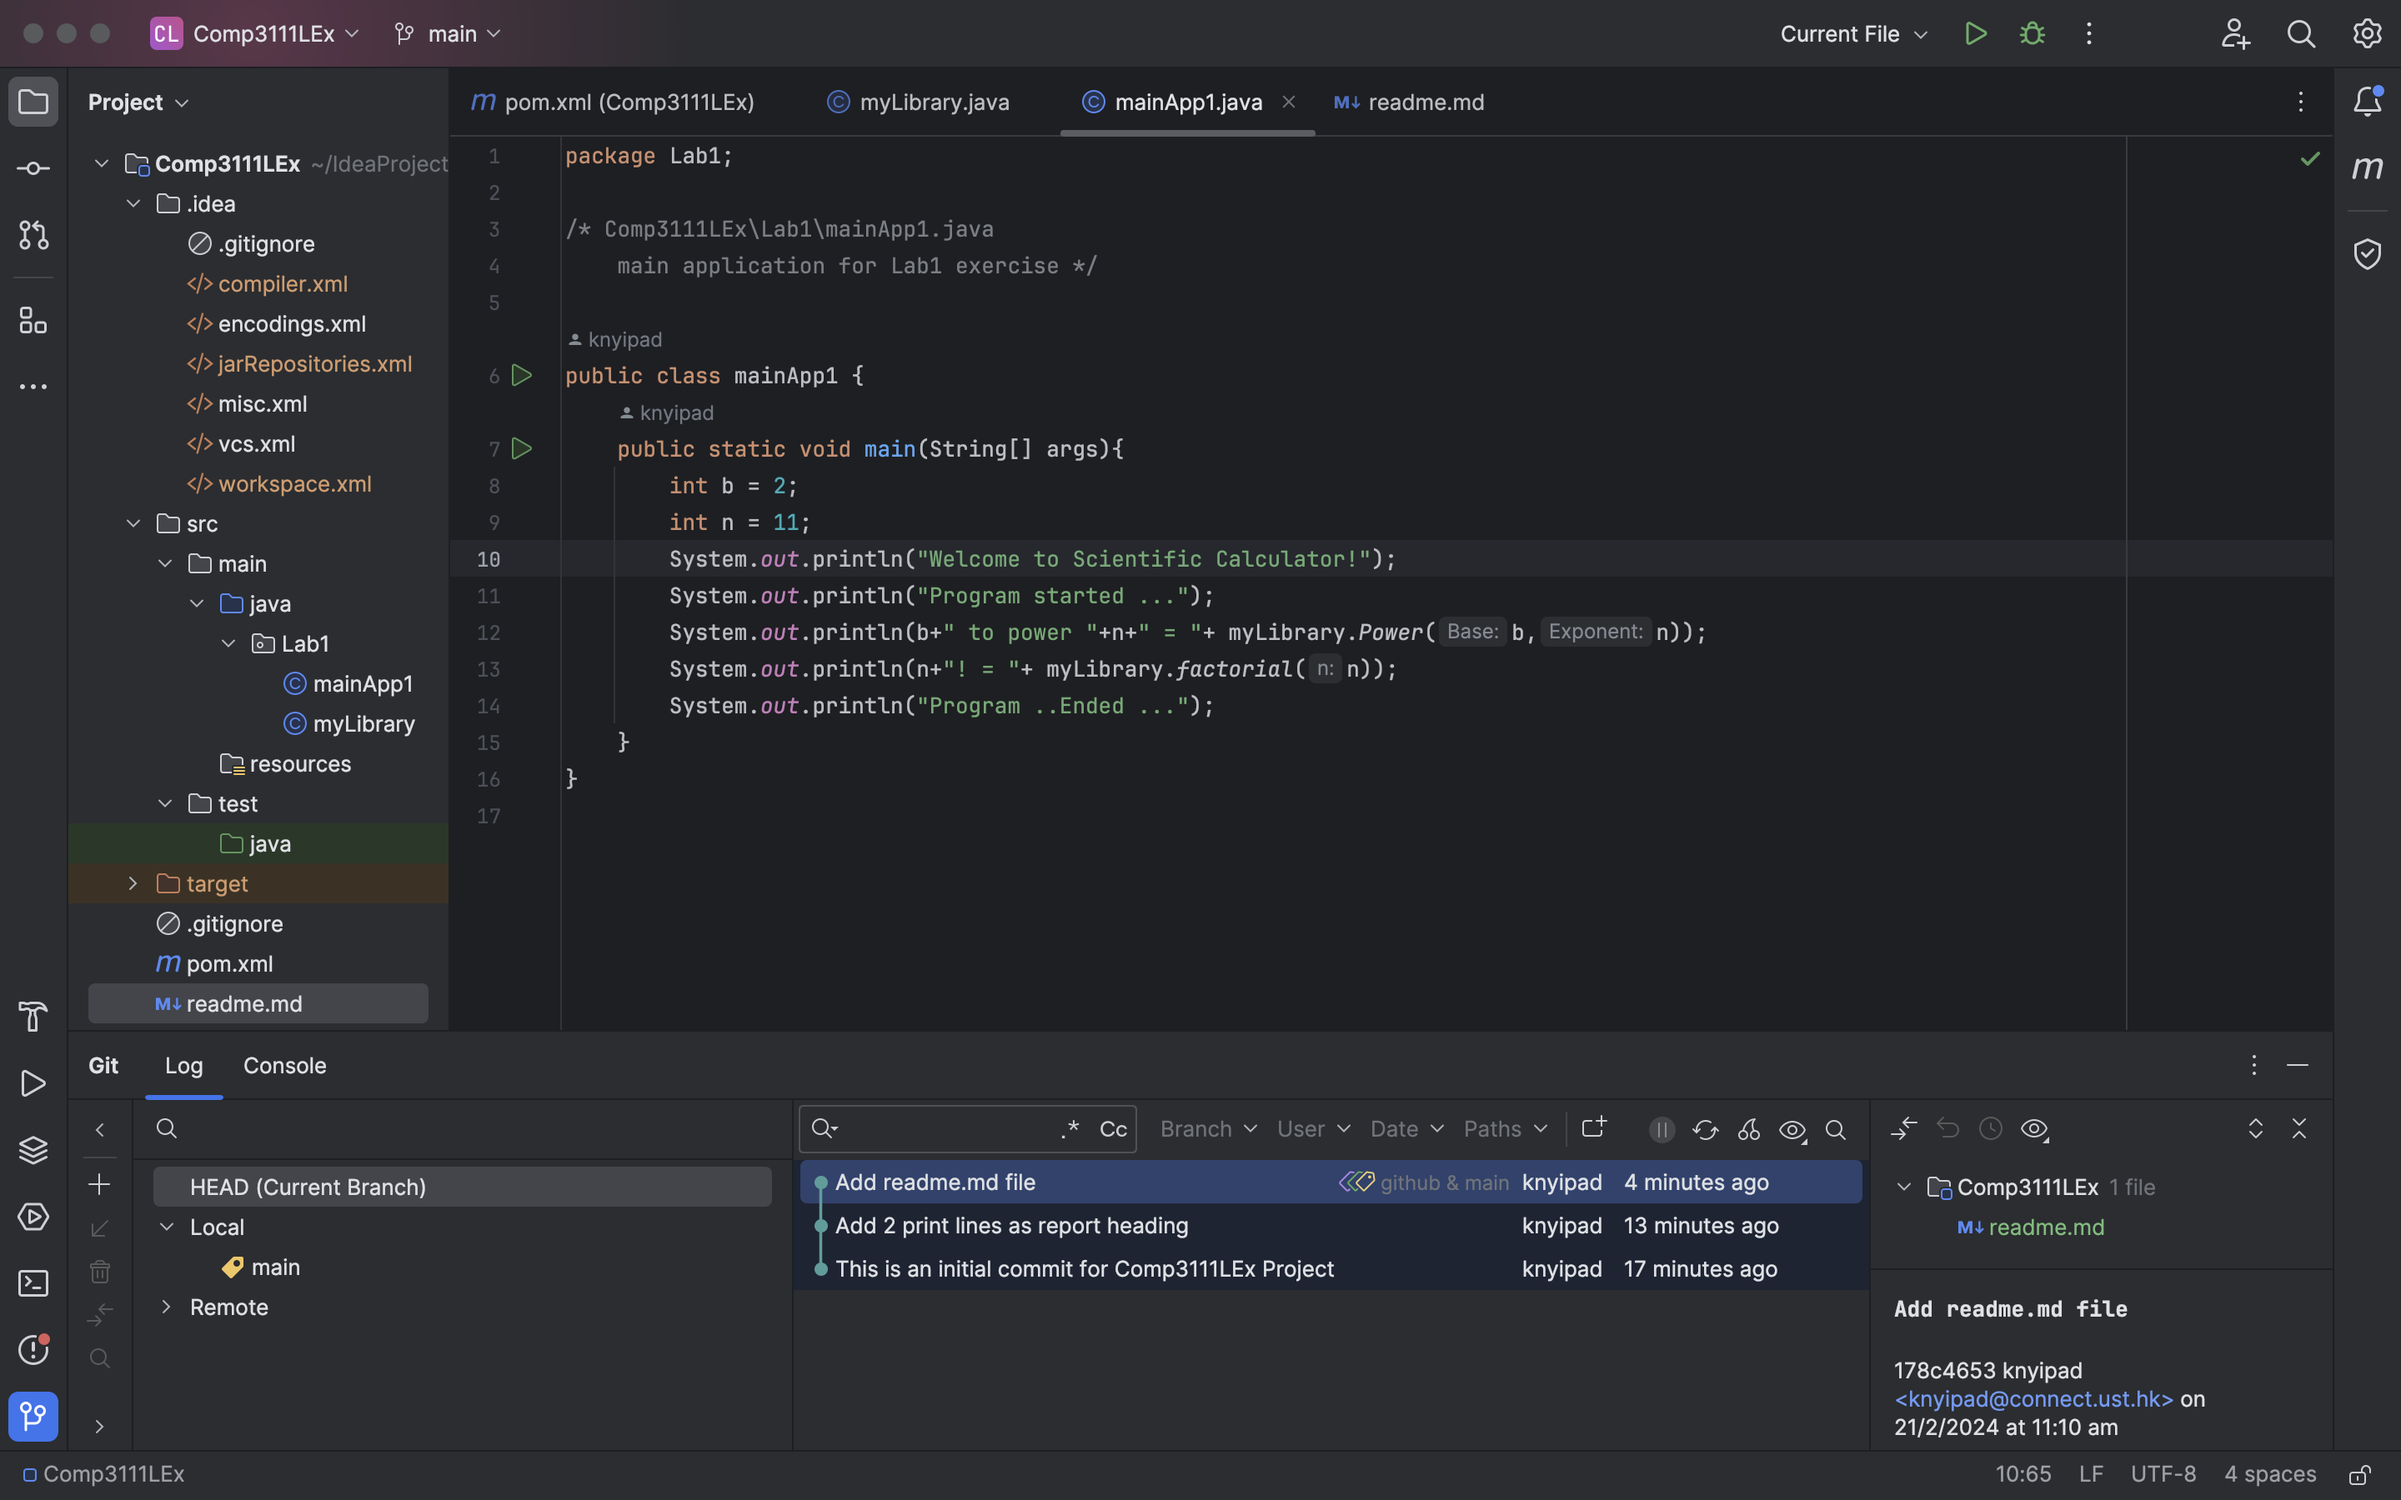
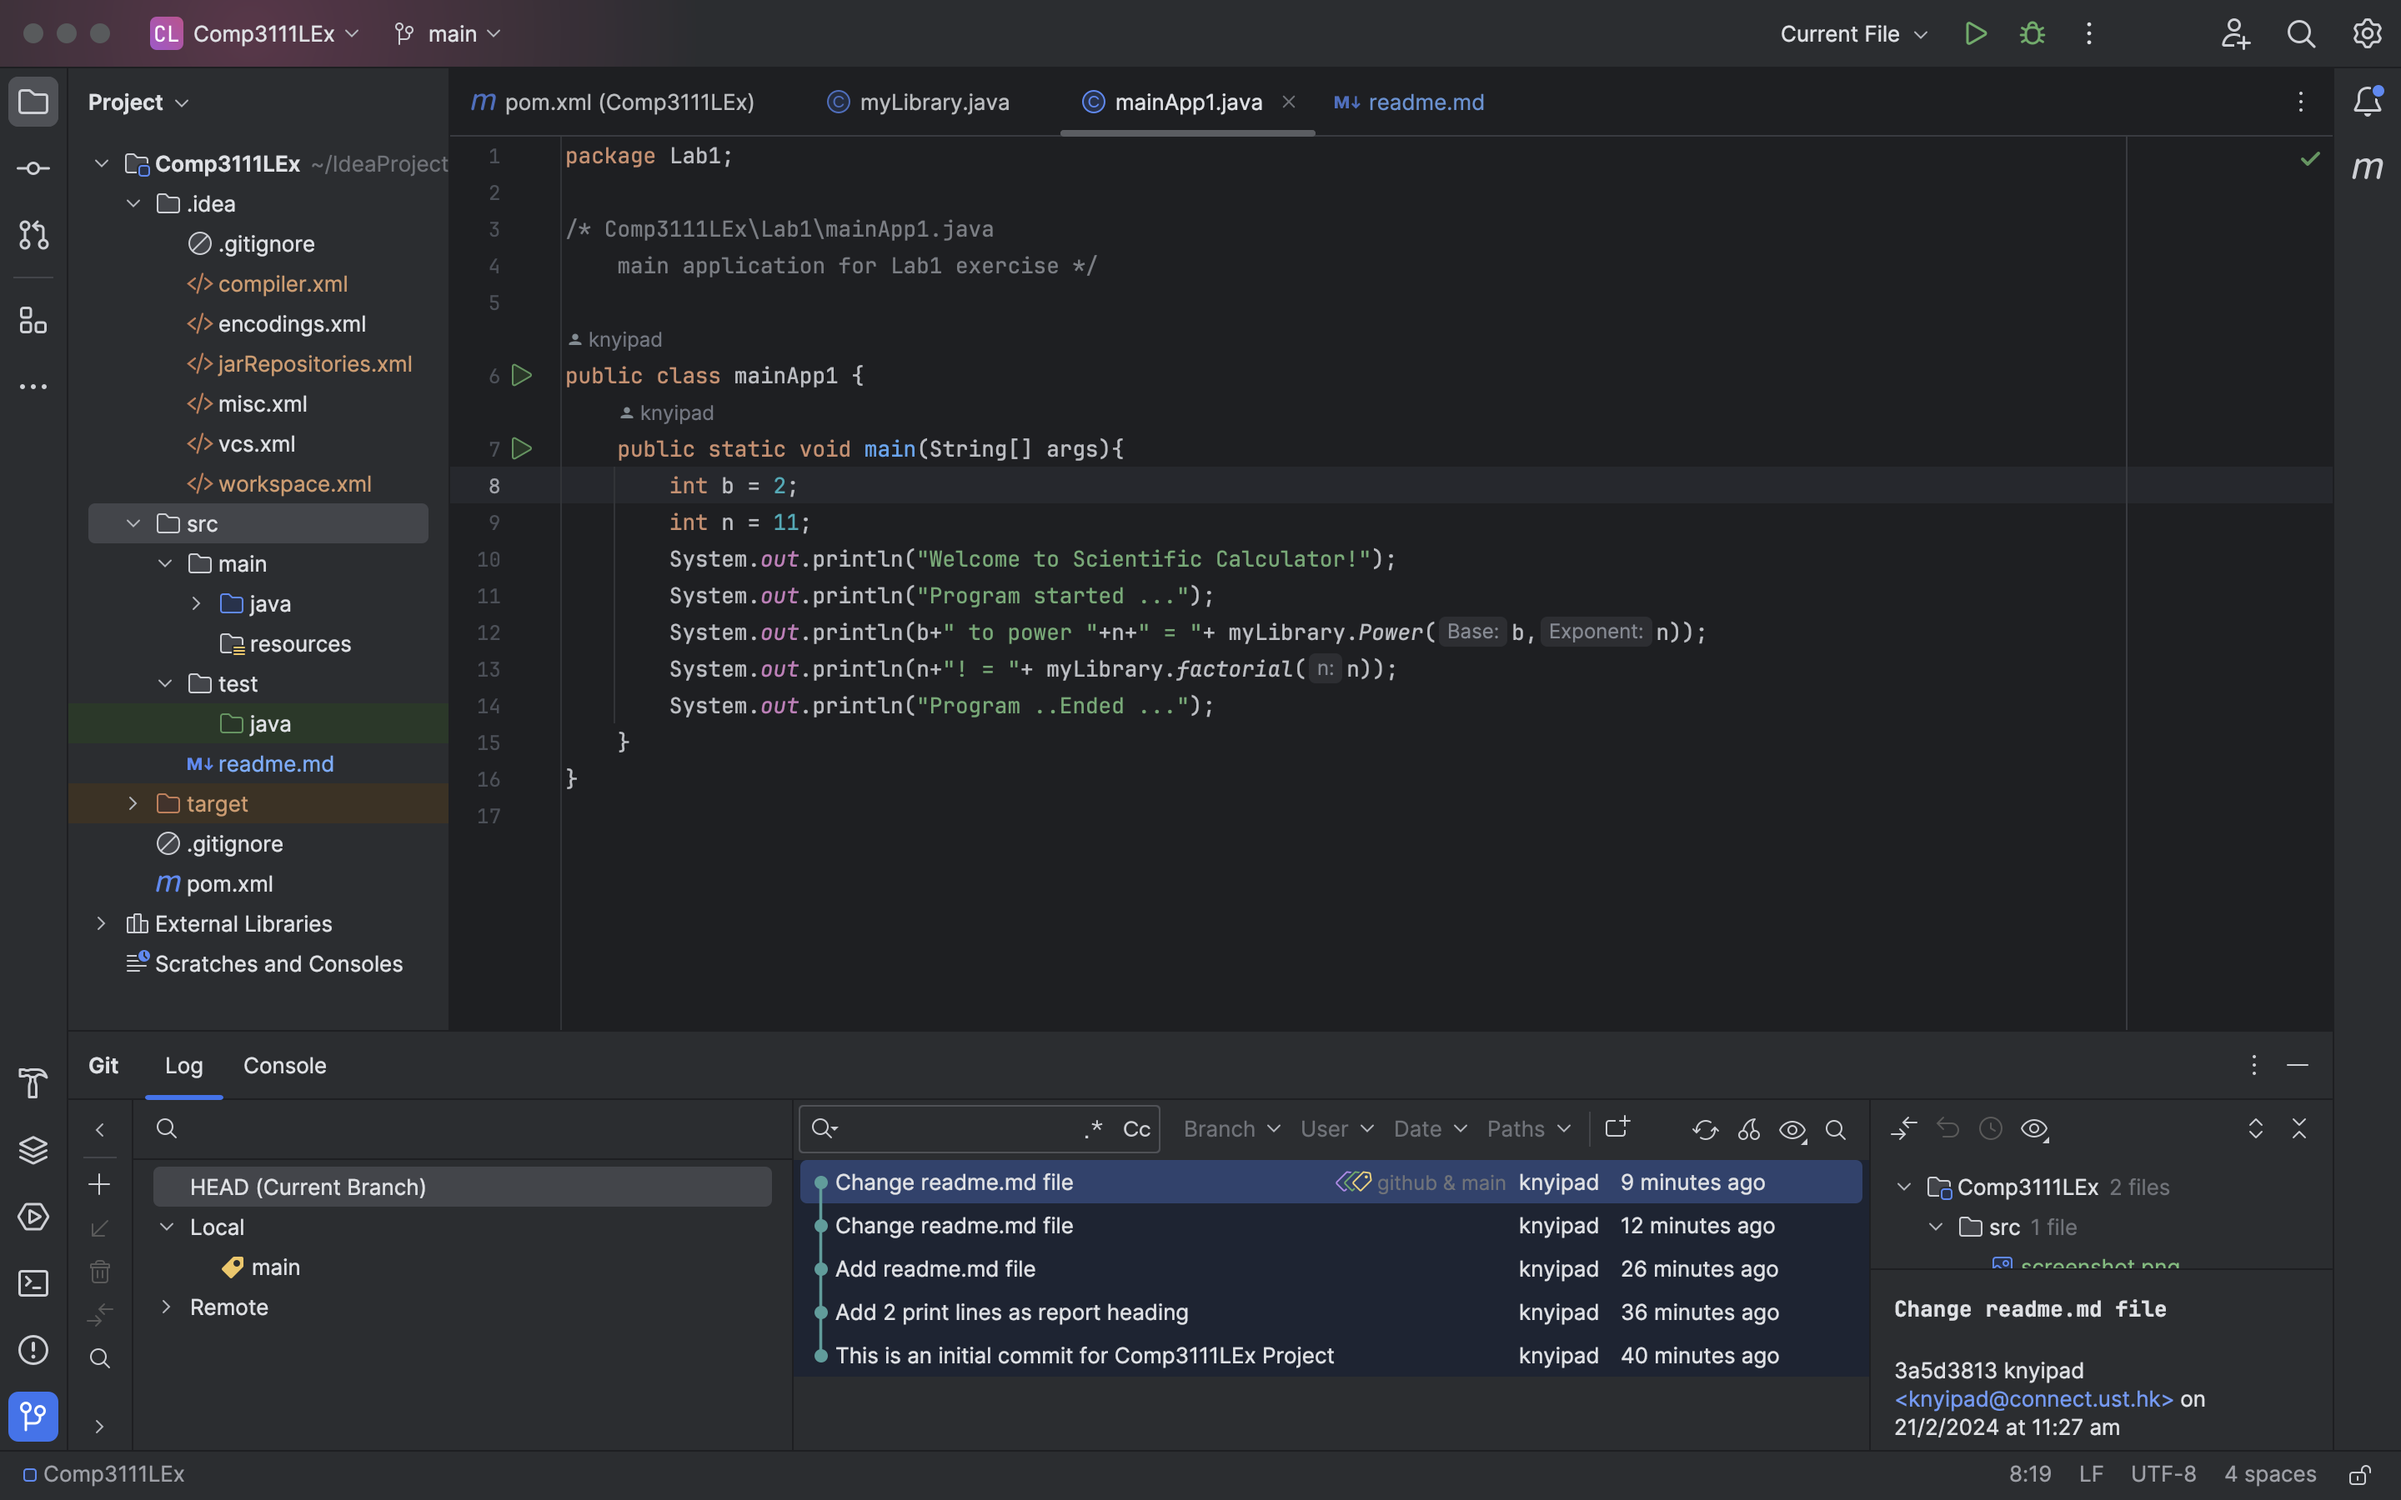
Change readme.md file

diff --git a/src/readme.md b/src/readme.md
@@ -4,5 +4,4 @@ This is the readme.md file for the Comp3111LEx Project.
 ## Screenshot
 Below is the screenshot on IntelliJ:
 
-![](src/screenshot.png)
-
+![](screenshot.png)
